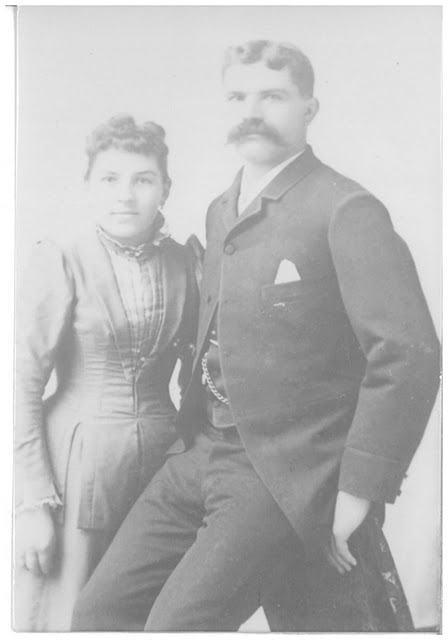
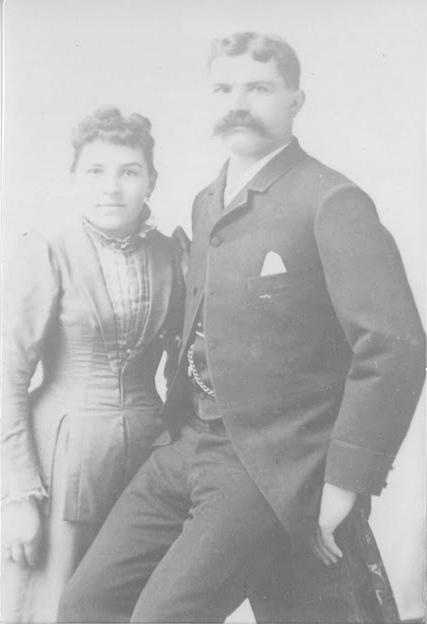
Add files via upload

diff --git a/Index.html b/Index.html
@@ -1,0 +1,123 @@
+<!DOCTYPE html>
+<html>
+<head>
+	<meta http-equiv="content-type" content="text/html; charset=utf-8"/>
+	<title></title>
+	<meta name="generator" content="LibreOffice 7.3.7.2 (Linux)"/>
+	<meta name="author" content="Todd Pavela"/>
+	<meta name="created" content="2026-02-23T18:12:12.560757999"/>
+	<meta name="changedby" content="Todd Pavela"/>
+	<meta name="changed" content="2026-02-24T05:44:07.034582208"/>
+	<style type="text/css">
+		@page { size: 8.5in 11in; margin-left: 0.79in; margin-right: 0.39in; margin-top: 0.39in; margin-bottom: 0.39in }
+		p { line-height: 115%; margin-bottom: 0.1in; background: transparent }
+	</style>
+</head>
+<body lang="en-US" link="#000080" vlink="#800000" dir="ltr"><p><br/>
+<br/>
+
+</p>
+<p align="center"><b>Jacob Pavela and Augusta Schmidt</b></p>
+<p><img src="Jacob.jpg" name="Image1" align="left" width="427" height="624" border="0"/>
+<br/>
+<br/>
+
+</p>
+<p><br/>
+<br/>
+
+</p>
+<p><br/>
+<br/>
+
+</p>
+<p><br/>
+<br/>
+
+</p>
+<p><br/>
+<br/>
+
+</p>
+<p><br/>
+<br/>
+
+</p>
+<p><br/>
+<br/>
+
+</p>
+<p><br/>
+<br/>
+
+</p>
+<p><br/>
+<br/>
+
+</p>
+<p><br/>
+<br/>
+
+</p>
+<p><br/>
+<br/>
+
+</p>
+<p><br/>
+<br/>
+
+</p>
+<p><br/>
+<br/>
+
+</p>
+<p><br/>
+<br/>
+
+</p>
+<p><br/>
+<br/>
+
+</p>
+<p><br/>
+<br/>
+
+</p>
+<p><br/>
+<br/>
+
+</p>
+<p><br/>
+<br/>
+
+</p>
+<p><br/>
+<br/>
+
+</p>
+<p><br/>
+<br/>
+
+</p>
+<p><br/>
+<br/>
+
+</p>
+<p><br/>
+<br/>
+
+</p>
+<p align="center"><br/>
+<br/>
+
+</p>
+<p align="center"><br/>
+<br/>
+
+</p>
+<p><br/>
+<br/>
+
+</p>
+</body>
+</html>
